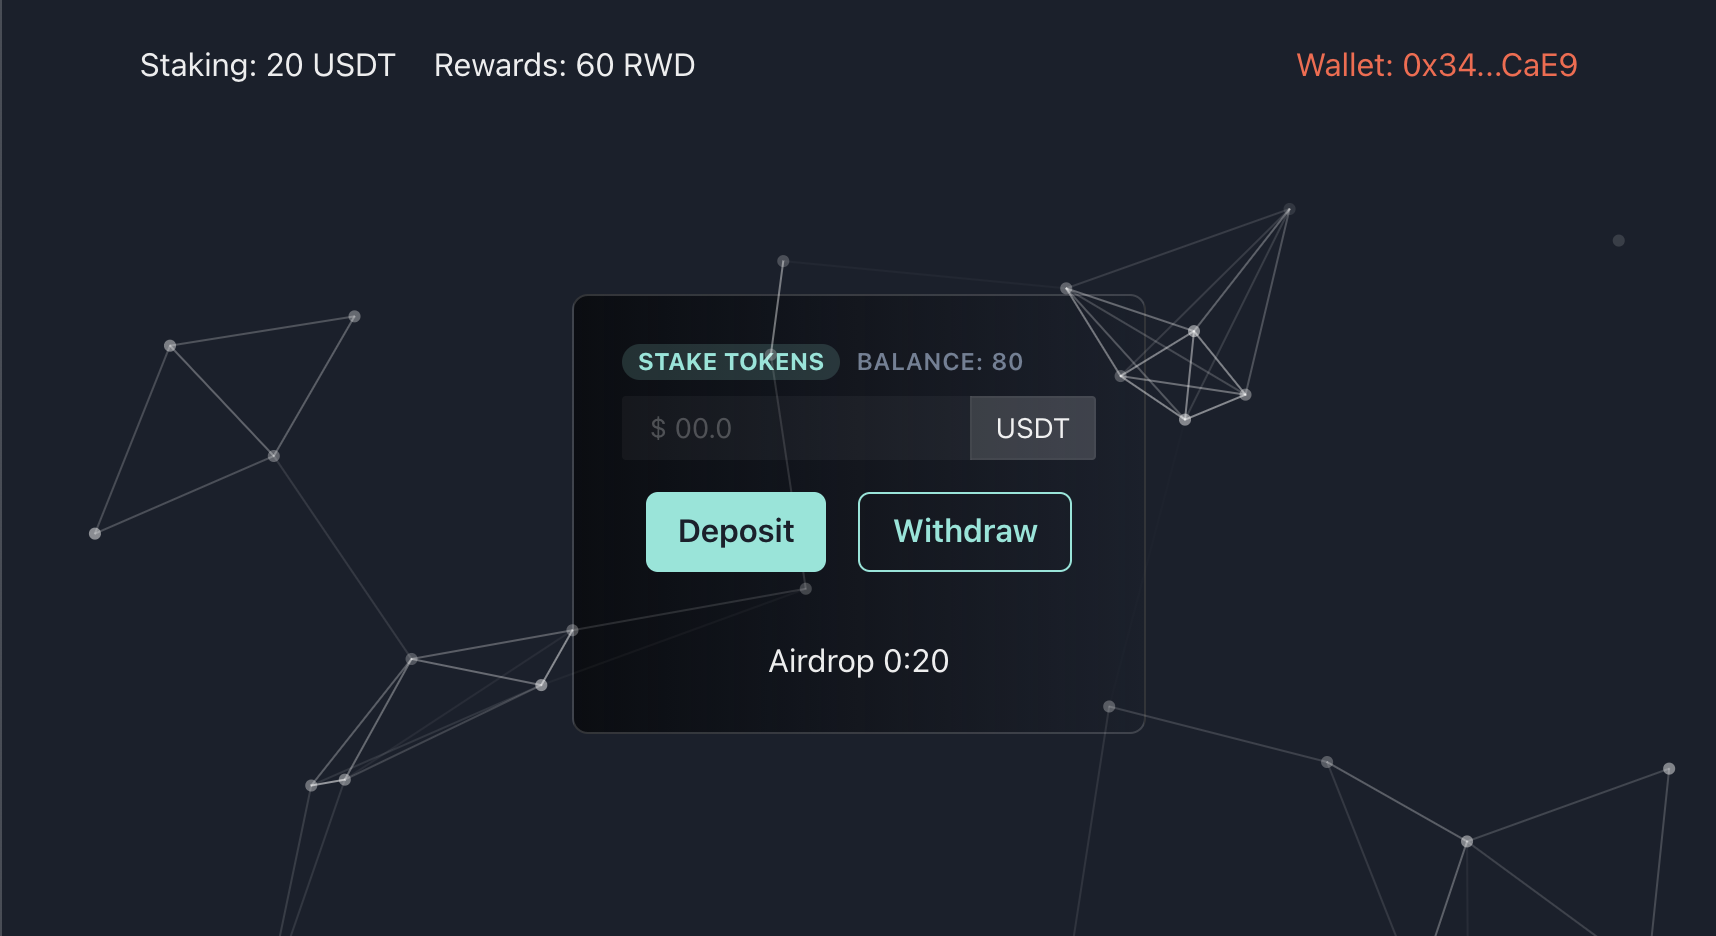
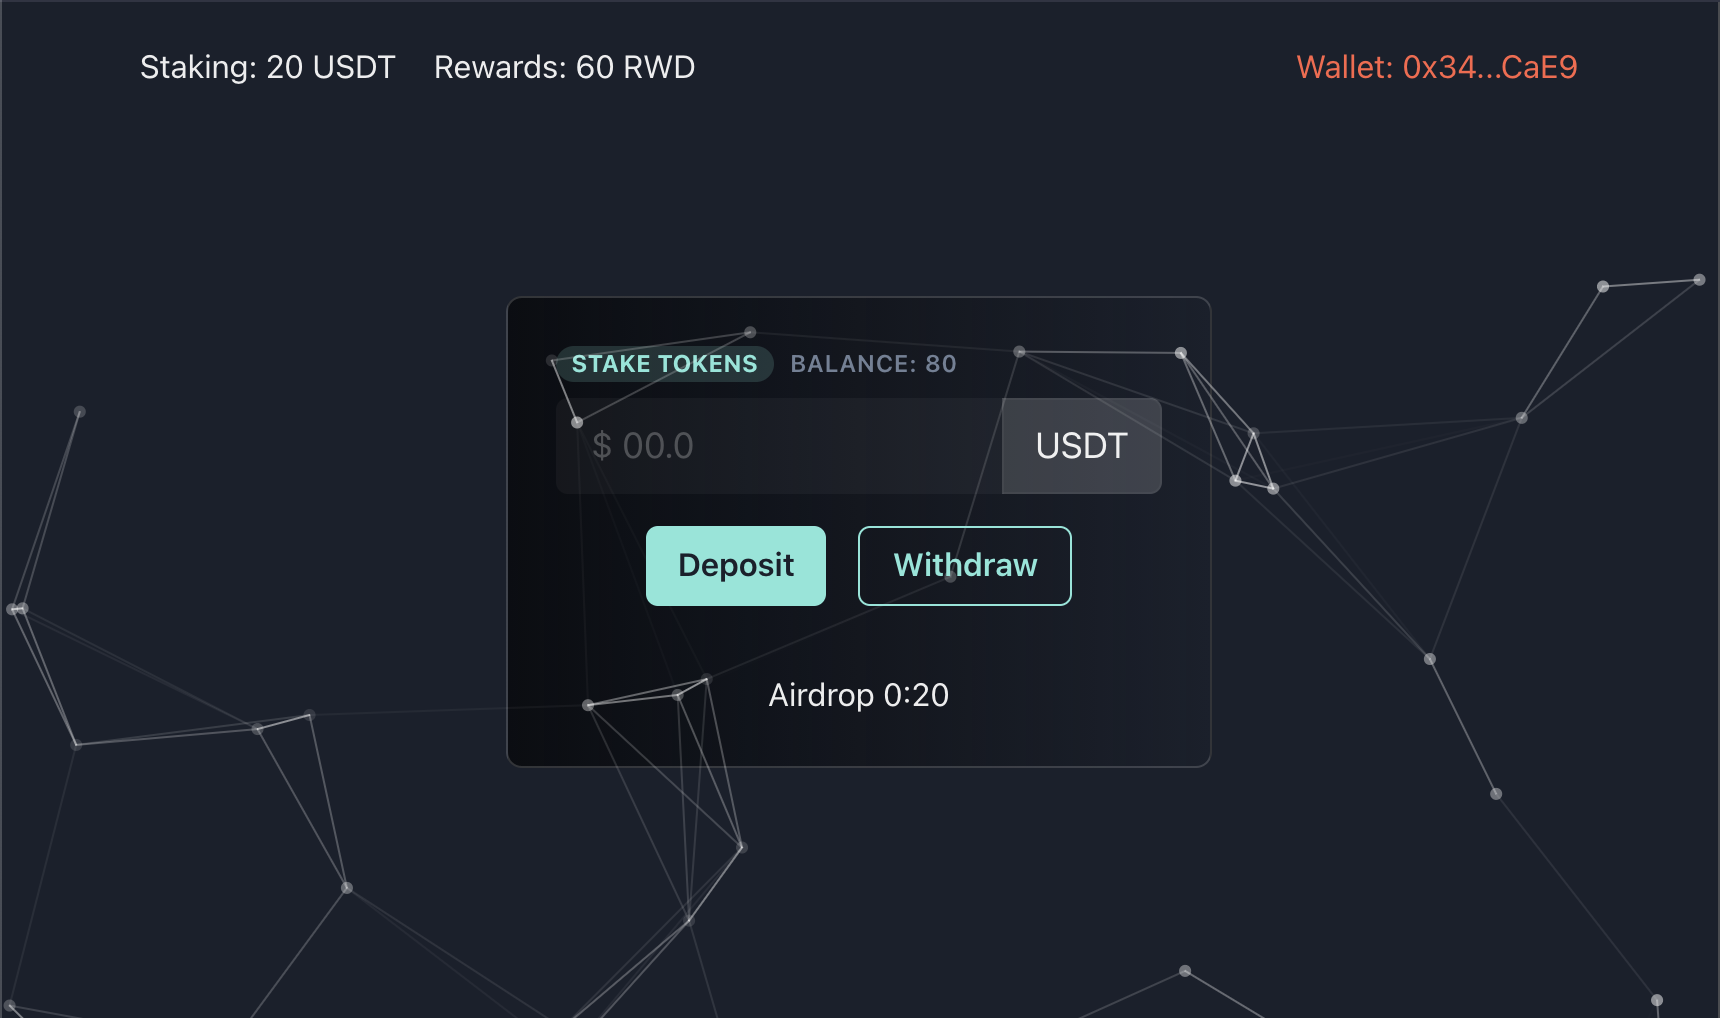
improvements and add screenshot

diff --git a/src/scripts/Provider.ts b/src/scripts/Provider.ts
@@ -1,32 +1,34 @@
-import { ethers } from "ethers";
-import { ExternalProvider } from "@ethersproject/providers/lib/web3-provider";
-import Tether from "../truffle_abis/Tether.json";
-import RWD from "../truffle_abis/RWD.json";
-import DecentralBank from "../truffle_abis/DecentralBank.json";
-import Web3 from "web3";
-import { sleep } from "./utils";
+import { ethers } from 'ethers'
+import { ExternalProvider } from '@ethersproject/providers/lib/web3-provider'
+import Web3 from 'web3'
+
+import Tether from '../truffle_abis/Tether.json'
+import RWD from '../truffle_abis/RWD.json'
+import DecentralBank from '../truffle_abis/DecentralBank.json'
+
+import { sleep } from './utils'
 
 interface ExternalProviderExtended extends ExternalProvider {
-  networkVersion?: string;
+  networkVersion?: string
 }
 
 export class Provider {
-  private provider: ethers.providers.Web3Provider | null;
-  private _isConnected = false;
+  private provider: ethers.providers.Web3Provider | null
+  private _isConnected = false
   private contracts: {
-    tether: ethers.Contract | null;
-    rwd: ethers.Contract | null;
-    decentralBank: ethers.Contract | null;
+    tether: ethers.Contract | null
+    rwd: ethers.Contract | null
+    decentralBank: ethers.Contract | null
   } = {
     tether: null,
     rwd: null,
     decentralBank: null,
-  };
+  }
 
   public constructor() {
     this.provider = (window as any).ethereum 
       ? new ethers.providers.Web3Provider((window as any).ethereum)
-      : null;
+      : null
   }
 
   /**
@@ -38,151 +40,155 @@ export class Provider {
     return new Promise((resolve, rejected) => {
       const _rejected = () => {
         rejected({
-          message: "Metamask not loaded...",
-        });
-      };
-
-      if(!this.provider){
-        _rejected();
-        return;
+          message: 'Metamask not loaded...',
+        })
       }
 
-      const signer = this.provider.getSigner();
+      if (!this.provider) {
+        _rejected()
+        return
+      }
+
+      const signer = this.provider.getSigner()
 
       const loadContractsPromise = async (retry_ws: number, resolve: (success: boolean) => void, rejected: (reason?: any) => void) => {
         // NetID Can be a little bit long to load
-        await sleep(1 * 1000 * 0.3);
+        await sleep(1 * 1000 * 0.3)
 
-        if(!this.provider){
-          _rejected();
-          return;
+        if (!this.provider) {
+          _rejected()
+
+          return
         }
-        let providerExtended = this.provider.provider as ExternalProviderExtended;
-        let netID = providerExtended.networkVersion;
 
-        console.debug("netID", netID);
+        const providerExtended = this.provider.provider as ExternalProviderExtended
+        const netID = providerExtended.networkVersion
+
+        console.debug('netID', netID)
         if (!netID) {
-          retry_ws++;
+          retry_ws++
+
           if (retry_ws < 4) {
             setTimeout(() => {
-              loadContractsPromise(retry_ws, resolve, rejected);
-            }, 300);
+              loadContractsPromise(retry_ws, resolve, rejected)
+            }, 300)
           } else {
             rejected({
-              message: "Did you start Ganache?",
-            });
+              message: 'Did you start Ganache?',
+            })
           }
         } else {
-          const tetherData = Tether.networks[netID as keyof typeof Tether.networks];
-          const rwdData = RWD.networks[netID as keyof typeof RWD.networks];
-          const decentralBankData = DecentralBank.networks[netID as keyof typeof DecentralBank.networks];
+          const tetherData = Tether.networks[netID as keyof typeof Tether.networks]
+          const rwdData = RWD.networks[netID as keyof typeof RWD.networks]
+          const decentralBankData = DecentralBank.networks[netID as keyof typeof DecentralBank.networks]
           if (tetherData) {
-            this.contracts.tether = new ethers.Contract(tetherData.address, Tether.abi, signer);
+            this.contracts.tether = new ethers.Contract(tetherData.address, Tether.abi, signer)
           }
           if (rwdData) {
-            this.contracts.rwd = new ethers.Contract(rwdData.address, RWD.abi, signer);
+            this.contracts.rwd = new ethers.Contract(rwdData.address, RWD.abi, signer)
           }
           if (decentralBankData) {
-            this.contracts.decentralBank = new ethers.Contract(decentralBankData.address, DecentralBank.abi, signer);
+            this.contracts.decentralBank = new ethers.Contract(decentralBankData.address, DecentralBank.abi, signer)
           }
 
-          this._isConnected = true;
+          this._isConnected = true
 
-          resolve(true);
+          resolve(true)
         }
-      };
+      }
 
-      loadContractsPromise(0, resolve, rejected);
-    });
+      loadContractsPromise(0, resolve, rejected)
+    })
   }
 
   public async getTether(): Promise<{ balance: string; symbol: string } | null> {
-    if (!this.contracts.tether) return null;
+    if (!this.contracts.tether) return null
 
-    const account = await this.getAccountNumber();
-    const accountBalance = await this.contracts.tether.balanceOf(account);
+    const account = await this.getAccountNumber()
+    const accountBalance = await this.contracts.tether.balanceOf(account)
 
-    const balance = Web3.utils.fromWei(accountBalance.toString(), "ether");
-    const symbol = await this.contracts.tether.symbol();
+    const balance = Web3.utils.fromWei(accountBalance.toString(), 'ether')
+    const symbol = await this.contracts.tether.symbol()
 
     return {
       balance,
       symbol,
-    };
+    }
   }
 
   public async getRWD(): Promise<{ balance: string; symbol: string } | null> {
-    if (!this.contracts.rwd) return null;
+    if (!this.contracts.rwd) return null
 
-    const account = await this.getAccountNumber();
-    const accountBalance = await this.contracts.rwd.balanceOf(account);
+    const account = await this.getAccountNumber()
+    const accountBalance = await this.contracts.rwd.balanceOf(account)
 
-    const balance = Web3.utils.fromWei(accountBalance.toString(), "ether");
-    const symbol = await this.contracts.rwd.symbol();
+    const balance = Web3.utils.fromWei(accountBalance.toString(), 'ether')
+    const symbol = await this.contracts.rwd.symbol()
 
     return {
       balance,
       symbol,
-    };
+    }
   }
 
   public async getStakingBalance(): Promise<{ balance: string; symbol: string } | null> {
-    if (!this.contracts.tether || !this.contracts.decentralBank) return null;
+    if (!this.contracts.tether || !this.contracts.decentralBank) return null
 
-    const account = await this.getAccountNumber();
-    const accountBalance = await this.contracts.decentralBank.stakingBalance(account);
-    const balance = Web3.utils.fromWei(accountBalance.toString(), "ether");
+    const account = await this.getAccountNumber()
+    const accountBalance = await this.contracts.decentralBank.stakingBalance(account)
+    const balance = Web3.utils.fromWei(accountBalance.toString(), 'ether')
 
-    const symbol = await this.contracts.tether.symbol();
+    const symbol = await this.contracts.tether.symbol()
 
     return {
       balance,
       symbol,
-    };
+    }
   }
 
   public async stakeTokens(amount: string) {
-    if (!this.contracts.tether || !this.contracts.decentralBank) return;
+    if (!this.contracts.tether || !this.contracts.decentralBank) return
 
-    amount = Web3.utils.toWei(amount, "ether");
+    amount = Web3.utils.toWei(amount, 'ether')
 
-    const transferResultApprove = await this.contracts.tether.approve(this.contracts.decentralBank.address, amount);
-    console.debug("approve::transferResult", transferResultApprove);
-    if (!this.contracts.decentralBank) return;
+    const transferResultApprove = await this.contracts.tether.approve(this.contracts.decentralBank.address, amount)
+    console.debug('approve::transferResult', transferResultApprove)
+    if (!this.contracts.decentralBank) return
 
-    const transferResultDepositToken = await this.contracts.decentralBank.depositToken(amount);
-    console.debug("depositToken::transferResultDepositToken", transferResultDepositToken);
+    const transferResultDepositToken = await this.contracts.decentralBank.depositToken(amount)
+    console.debug('depositToken::transferResultDepositToken', transferResultDepositToken)
   }
 
   public async unstakeTokens() {
-    if (!this.contracts.decentralBank) return;
+    if (!this.contracts.decentralBank) return
 
-    console.debug(this.contracts.decentralBank?.address);
+    console.debug(this.contracts.decentralBank?.address)
 
-    const transferResult = await this.contracts.decentralBank.unstakeTokens();
-    console.debug("unstakeTokens::transferResult", transferResult);
+    const transferResult = await this.contracts.decentralBank.unstakeTokens()
+    console.debug('unstakeTokens::transferResult', transferResult)
   }
 
   public async getAccountNumber(): Promise<string> {
-    if(!this.provider){
-      return "";
+    if (!this.provider) {
+      return ''
     }
 
-    const accounts = await this.provider.listAccounts();
-    return accounts[0];
+    const accounts = await this.provider.listAccounts()
+    return accounts[0]
   }
 
   public async getAccountBalance(): Promise<number> {
-    if(!this.provider){
-      return 0;
+    if (!this.provider) {
+      return 0
     }
 
-    const account = await this.getAccountNumber();
-    let balanceBig = await this.provider.getBalance(account);
-    return parseFloat(ethers.utils.formatEther(balanceBig));
+    const account = await this.getAccountNumber()
+    const balanceBig = await this.provider.getBalance(account)
+
+    return parseFloat(ethers.utils.formatEther(balanceBig))
   }
 
   public get isConnected() {
-    return this._isConnected;
+    return this._isConnected
   }
 }

diff --git a/src/components/App.tsx b/src/components/App.tsx
@@ -32,45 +32,43 @@ const App = () => {
       .catch((err) => setError(err.message))
   }, [provider])
 
-  return (
-    <Flex
-      style={{ height: '100vh' }}
-      flexDirection='column'
-      alignItems='center'
-    >
-      <Particles
-        className='particles'
-        params={{
-          particles: {
-            number: {
-              value: 50,
-            },
-            size: {
-              value: 3,
+  return <Flex
+    style={{ height: '100vh' }}
+    flexDirection='column'
+    alignItems='center'
+  >
+    <Particles
+      className='particles'
+      params={{
+        particles: {
+          number: {
+            value: 50,
+          },
+          size: {
+            value: 3,
+          },
+        },
+        interactivity: {
+          events: {
+            onhover: {
+              enable: true,
+              mode: 'repulse',
             },
           },
-          interactivity: {
-            events: {
-              onhover: {
-                enable: true,
-                mode: 'repulse',
-              },
-            },
-          },
-        }}
-      />
-      {isConnected ? (
-        <ProviderContext.Provider value={value}>
-          <ChakraProvider>
-            <MenuTop />
-            <InteractionToken />
-          </ChakraProvider>
-        </ProviderContext.Provider>
-      ) : (
-        <div className='error_front'>{error}</div>
-      )}
-    </Flex>
-  )
+        },
+      }}
+    />
+    {isConnected ? (
+      <ProviderContext.Provider value={value}>
+        <ChakraProvider>
+          <MenuTop />
+          <InteractionToken />
+        </ChakraProvider>
+      </ProviderContext.Provider>
+    ) : (
+      <div className='error_front'>{error}</div>
+    )}
+  </Flex>
 }
 
 export default App

diff --git a/src/components/InteractionToken/InteractionToken.tsx b/src/components/InteractionToken/InteractionToken.tsx
@@ -68,7 +68,7 @@ const InteractionToken = () => {
           </Box>
         </Box>
         <Box mt='2'>
-          <InputGroup size='sm'>
+          <InputGroup size='lg'>
             <Input
               variant='filled'
               placeholder='$ 00.0'
